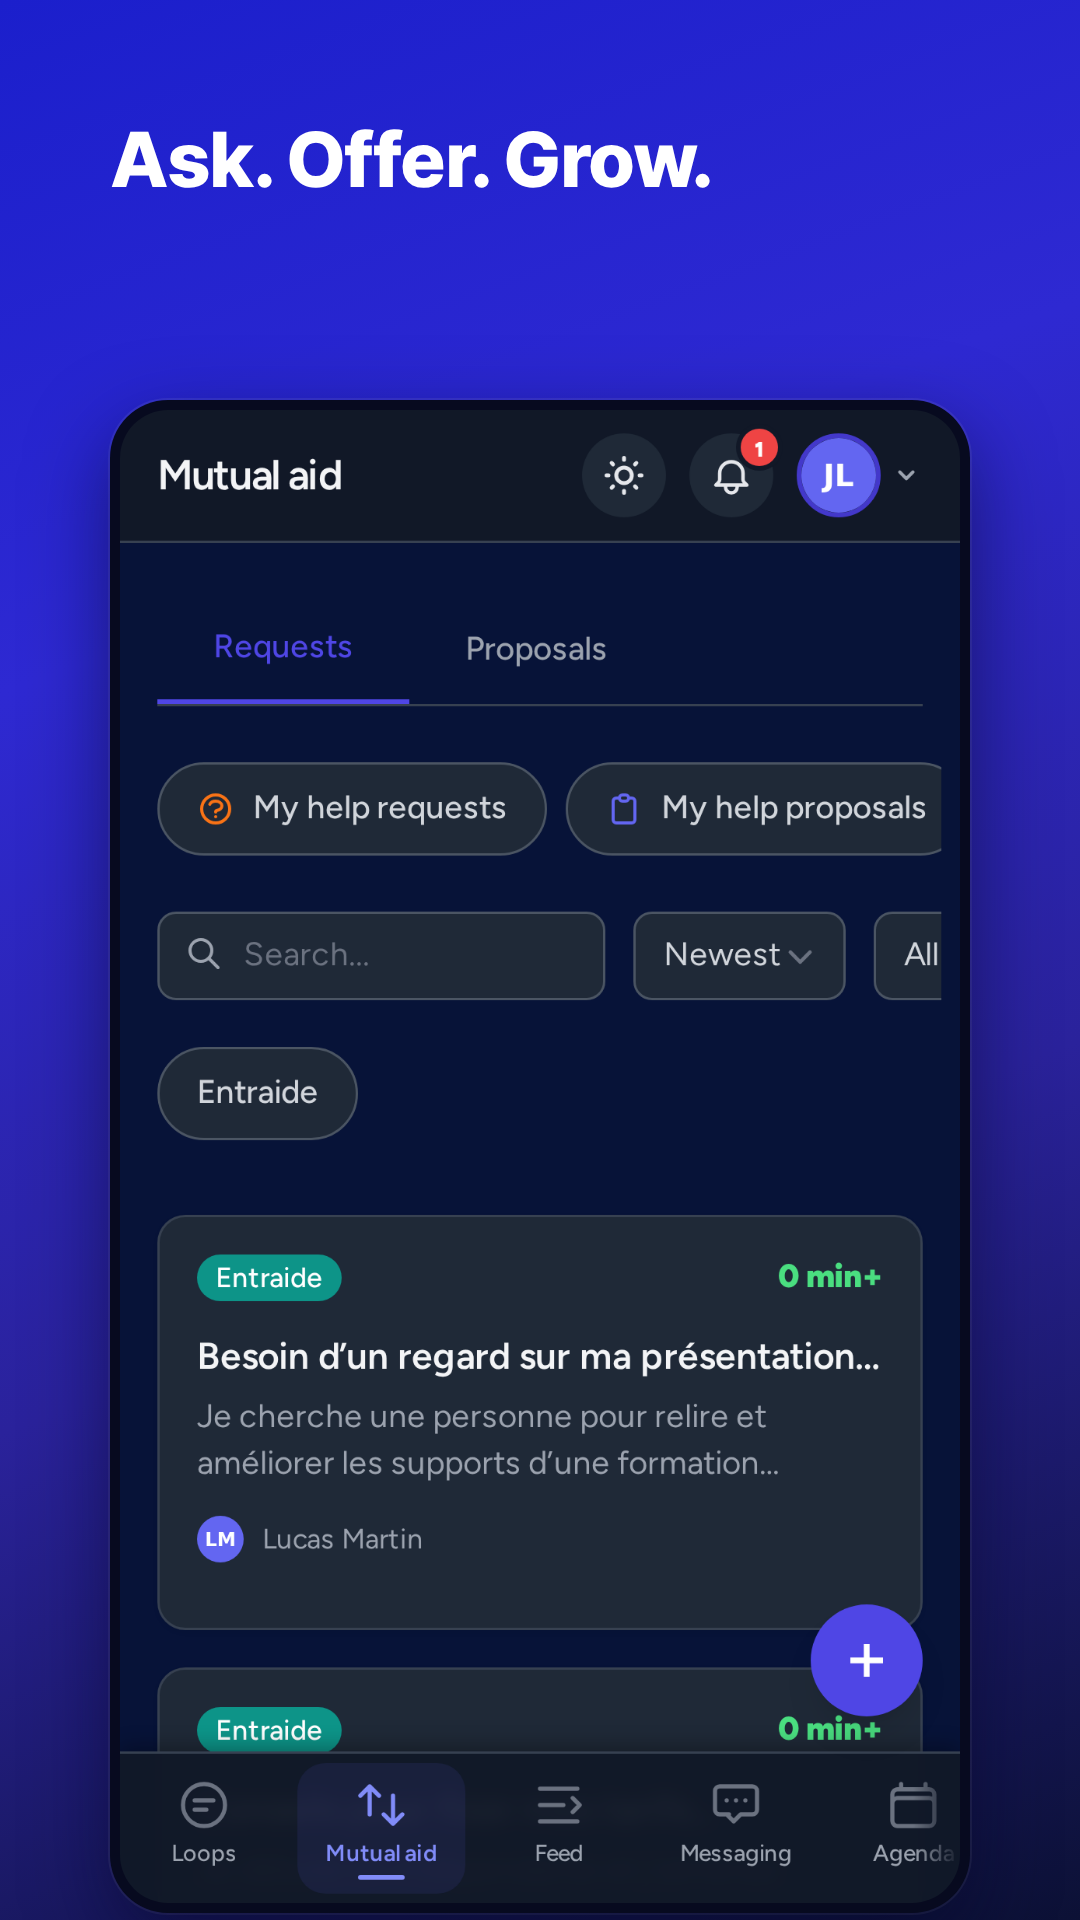
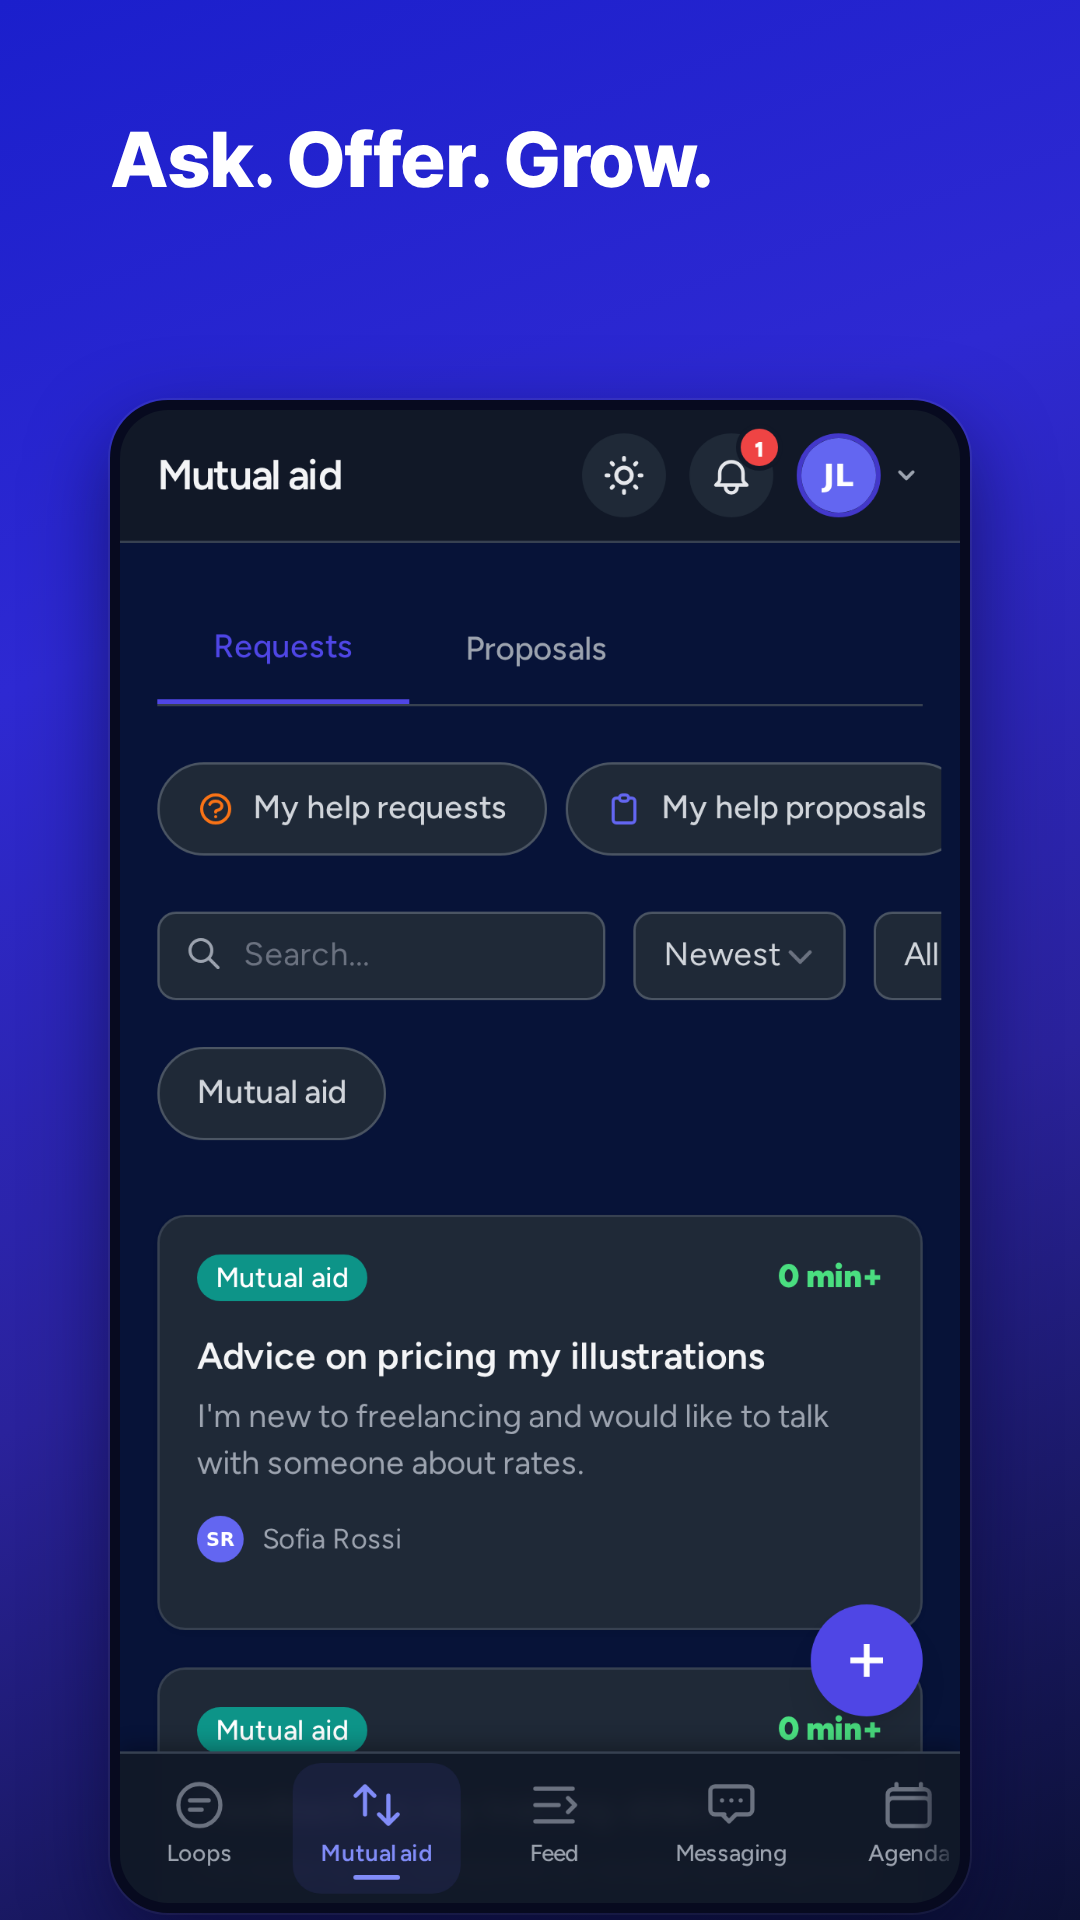
feat(brand): TASK-1902 — captures EN-US avec contenus fictifs en anglais
Les cinq captures EN et la feature graphic EN sont refaites sur le jumeau
local avec des contenus de démonstration traduits (Horizon Collective).
Version française inchangée. README mis à jour.

Publié par Cyril pour l'AMT

diff --git a/public/brand/google-play/README.md b/public/brand/google-play/README.md
@@ -29,7 +29,7 @@ Feature graphic : « Ne plus avancer seul » (FR), « Move forward together » (
 
 - **Captures réelles** de l'interface BouclePro 1.901, thème sombre, prises le 25/11/2026 avec Playwright (fenêtre 360 × 640, densité 3) sur un environnement local, à partir d'une copie de la production anonymisée.
 - Organisation **fictive** « Collectif Horizon » et membre **fictif** Julien Lefèvre (membre simple). Aucune donnée personnelle réelle.
-- Version anglaise : interface en anglais (langue choisie dans l'application). Les **contenus** saisis par les membres fictifs restent en français : messages, titres, catégorie « Entraide », message système de sondage dans la Boucle.
+- Version anglaise : interface en anglais (langue choisie dans l'application) et contenus fictifs traduits en anglais dans l'environnement local seulement (organisation « Horizon Collective », messages, annonces, événements, demandes, catégorie « Mutual aid »). Les noms des membres fictifs sont conservés.
 - Mise en forme : accroche en Inter 800 et capture d'origine réduite à 840 px de large dans un cadre arrondi. Le dégradé reprend celui de la Feature Graphic du 24/11 (`#1b1fcc` → `#0c1135`).
 - Icône : celle de l'application Android (`store_icon.png` du projet TWA), même dessin que les icônes PWA `public/brand/icon-512.png`.
 
@@ -40,7 +40,7 @@ Dimensions, format PNG, absence de transparence (sauf l'icône) et poids, vérif
 - image de présentation ≤ 15 Mo ;
 - captures ≤ 8 Mo, ratio ≤ 2:1.
 
-Tous les fichiers sont conformes. Le plus lourd pèse 525 Ko.
+Tous les fichiers sont conformes. Le plus lourd pèse 541 Ko.
 
 ## Limites connues
 
